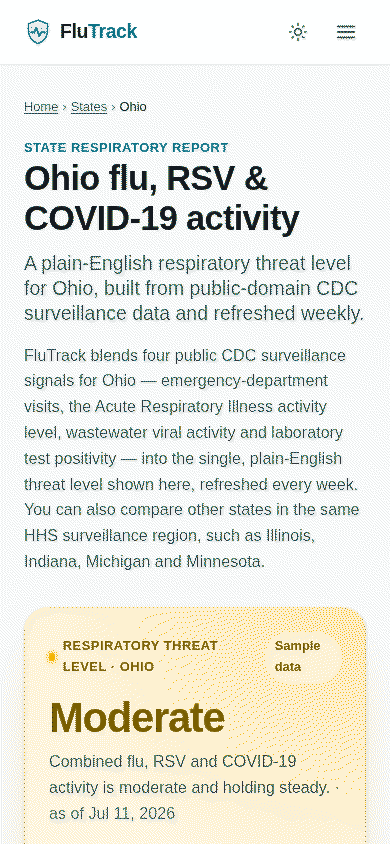
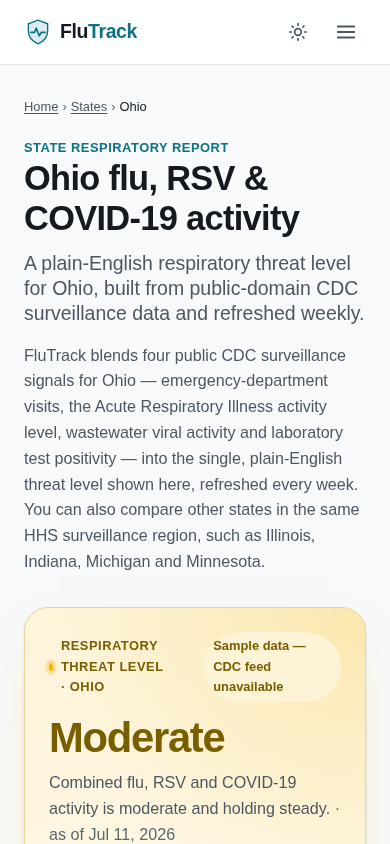
fix: correct a cluster of claims the site made about itself
A site-wide sweep for statements that no longer matched the code returned twelve
findings. Each was verified against source before being changed.

Most serious — the alert programme described a service that does not run

/alerts/, /faq/ and /privacy/ described weekly recomputation and alert dispatch
in the present tense: "We read the CDC every week so you don't have to", "we send
a short, plain-English summary". No code in the repository sends any email. The
only sender is a Resend register entry whose own status field reads "Engaged — no
alert email has been sent yet", so the site already knew.

A visitor could subscribe expecting emails that cannot arrive. The pages now say
so directly, with a notice under the form, a FAQ answer, and future tense
throughout. Signing up reserves a place; it does not start a subscription.

Sample data presented as verified surveillance

The offline notice read "Last verified snapshot: Jul 11, 2026" — the one place on
the site describing the deterministic PRNG artifact as real, verified data. It
now names it as the bundled sample. The text lived in two places, hardcoded in
render.js and duplicated unused in site.mjs, which is how they drifted; the dead
copy is gone and render.js carries the single version.

Advertising: seven pages disagreed with two

Two pages said the site serves no advertising. Seven said it is supported by
advertising. No ad script and no sponsored anchor ships anywhere. All now agree.
[…]

diff --git a/src/scripts/render.js b/src/scripts/render.js
@@ -242,9 +242,9 @@ export function cachedNotice({ weekEnding, retry = true } = {}) {
   const stamp = weekEnding ? formatDate(weekEnding) : 'not recorded';
   return `<div class="callout callout--warn cache-notice" role="status">
     <p class="callout__title">Cached data — may not be current</p>
-    <p>You are viewing a cached FluTrack page. Data may not be current. Last verified snapshot: ${escapeHtml(
+    <p>You are viewing a cached FluTrack page, so the reading shown may be the bundled sample data rather than a live CDC figure, and may not be current. Snapshot bundled with this page: ${escapeHtml(
       stamp
-    )}. Reconnect and refresh for the latest CDC-derived update.</p>
+    )}. Reconnect and refresh to load the latest CDC-derived update.</p>
     ${
       retry
         ? `<div class="cache-notice__actions"><button class="btn btn--secondary" type="button" data-action="retry-refresh">Retry refresh</button></div>`
